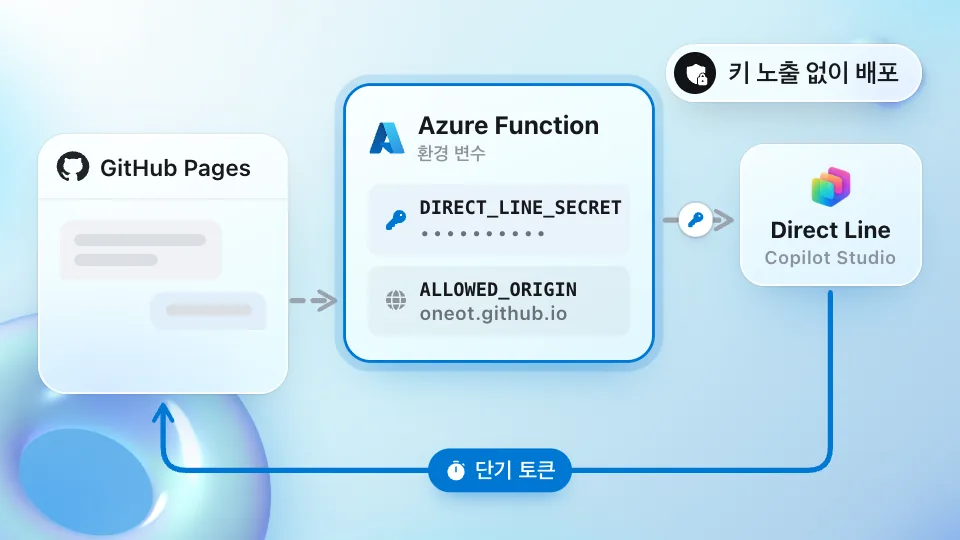
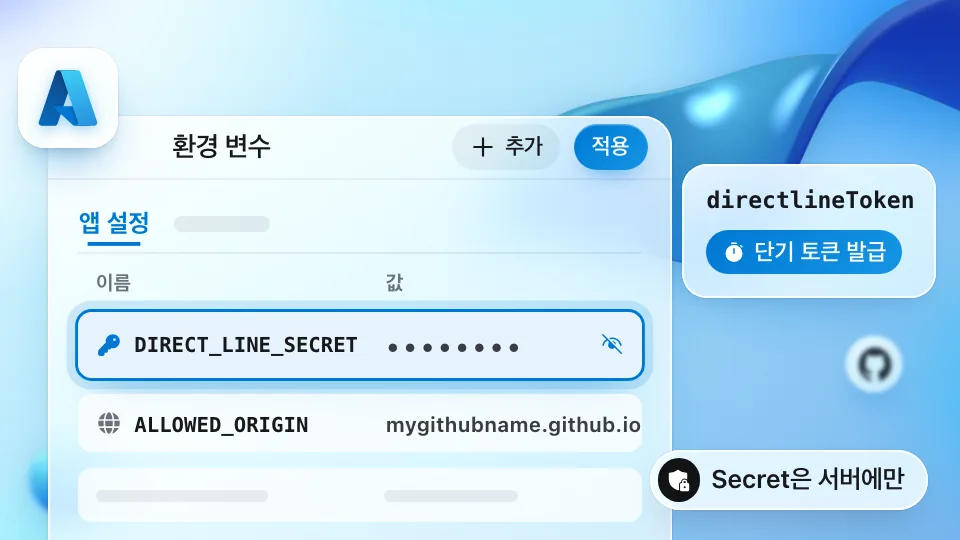
Redraw 1 post thumbnails in the current design
Run: https://github.com/oneot/elevate/actions/runs/39530323929

diff --git a/tools/post-thumbs/scenes/auto/azure/secret-key-azure-function-github-pages.js b/tools/post-thumbs/scenes/auto/azure/secret-key-azure-function-github-pages.js
@@ -1,0 +1,47 @@
+(() => {
+  /* Function App 'Environment variables': the Direct Line secret lives only on the server, value hidden */
+  scene('azure/secret-key-azure-function-github-pages', (K) => {
+    const row = (icon, name, val, cls = '') => `<div class="rw ${cls}"><span class="nm">${K.ico(icon, { s: 2.8 })}<code>${name}</code></span>${val}</div>`;
+    return K.win({
+      x: 5, y: 12, w: 65, h: 50, title: '환경 변수', icon: false,
+      barRight: `${K.btn('추가', { icon: 'add' })}${K.btn('적용', { primary: true })}`,
+      body: `<div class="ev">
+        <div class="tabs"><span class="on">앱 설정</span>${K.skel(10, { h: 1.6 })}</div>
+        <div class="hd"><span>이름</span><span>값</span></div>
+        ${row('key', 'DIRECT_LINE_SECRET', `<span class="vl sec"><b>••••••••</b>${K.ico('eye_off', { s: 2.6 })}</span>`, 'hl')}
+        ${row('globe', 'ALLOWED_ORIGIN', '<span class="vl">mygithubname.github.io</span>')}
+        <div class="rw sk">${K.skel(18)}${K.skel(14)}</div>
+      </div>`,
+    })
+      + K.card({
+        x: 71, y: 17, w: 26.5, cls: 'tk',
+        body: `<code>directlineToken</code>${K.chip('단기 토큰 발급', { icon: 'timer', solid: true })}`,
+      })
+      + K.tile({ x: 1.8, y: 5, s: 10.5 })
+      + K.float({ right: 6, y: 35, app: 'github', far: true, s: 5.8 })
+      + K.pill({ right: 3.4, bottom: 3.2, icon: 'shield_lock', text: 'Secret은 서버에만' });
+  }, {
+    deco: { big: 'ribbon', small: 'sphere', v: 2 },
+    css: `
+      .win__bar { padding-left: 13cqw; font-size: 2.8cqw; }
+      .win__bar .btn { padding: 1cqw 1.9cqw; font-size: 2.3cqw; }
+      .ev { display: flex; flex-direction: column; gap: 1.6cqw; padding: 2.8cqw 3.2cqw; }
+      .tabs { display: flex; align-items: center; gap: 2.6cqw; padding-bottom: 1.2cqw; border-bottom: .2cqw solid var(--line); }
+      .tabs .on { font-size: 2.6cqw; font-weight: 700; color: rgb(var(--tint)); box-shadow: 0 1.4cqw 0 -1cqw rgb(var(--tint)); padding-bottom: .2cqw; }
+      .hd, .rw { display: grid; grid-template-columns: 29cqw 1fr; align-items: center; gap: 1.2cqw; }
+      .hd { padding: 0 1.8cqw; font-size: 2.1cqw; font-weight: 650; color: var(--ink-3); }
+      .rw { padding: 1.7cqw 1.8cqw; border-radius: 1.4cqw; background: rgba(255, 255, 255, .72); }
+      .nm { display: flex; align-items: center; gap: 1.2cqw; color: var(--ink-3); }
+      .nm code { font-family: var(--mono); font-size: 2.15cqw; font-weight: 750; color: var(--ink); white-space: nowrap; }
+      .vl { font-size: 2.15cqw; font-weight: 650; color: var(--ink-2); white-space: nowrap; }
+      .rw.hl { background: color-mix(in srgb, rgb(var(--tint)) 10%, #fff); }
+      .rw.hl .nm { color: rgb(var(--tint)); }
+      .sec { display: flex; align-items: center; justify-content: space-between; color: rgb(var(--tint)); }
+      .sec b { font-size: 3cqw; letter-spacing: .12em; color: var(--ink-2); }
+      .rw.sk { display: flex; gap: 12cqw; padding: 2.2cqw 1.8cqw; }
+      .tk { z-index: 3; display: flex; flex-direction: column; align-items: flex-start; gap: 1.6cqw; padding: 2.4cqw 2.6cqw; }
+      .tk code { font-family: var(--mono); font-size: 2.4cqw; font-weight: 750; color: var(--ink); }
+      .tk .chip { font-size: 2.4cqw; }
+    `,
+  });
+})();
